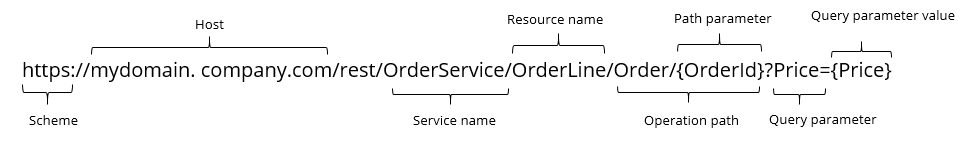
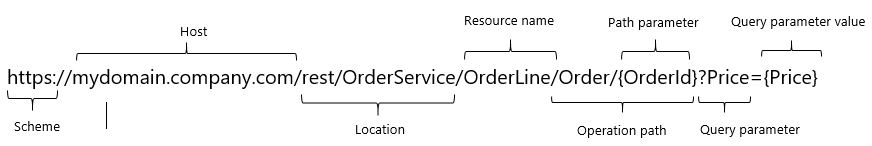
Documented service name, custom location and version feature in published REST service. (#933)
* Documented custom path feature in published REST service.

* Update published-rest-service.md

* Update version number for the feature

* Added documentation about Version and changed custom endpoint documentation to Location.

* Updated definitions of Service name + some wording changes.

* Fixed titles

diff --git a/content/refguide/published-rest-service.md b/content/refguide/published-rest-service.md
@@ -17,19 +17,60 @@ Use a published REST service to expose your entities and microflows to other app
 
 ### <a name="service-name"></a>2.1 Service Name
 
-The service name uniquely identifies the service in the app. It's part of the location of the service, so it cannot contain spaces or special characters.
+Service name uniquely identifies the service in the app. It is also displayed in [OpenAPI (Swagger) documentation page](open-api).
 
-### 2.2 Example Location
+When service is initially created, service name is used in the creation of the default location for the service. If the service name contains any spaces or special characters, they will be replaced with the `_` character in the service location. 
 
-The example location shows the URL on which the service can be reached. This is an example: 
+### 2.2 Version
 
-![](attachments/published-rest-service/example-location-url.png)
+{{% alert type="info" %}}
 
-### <a name="public-documentation"></a>2.3 Public Documentation
+The **Version** feature was introduced in version 7.12.0.
+
+{{% /alert %}}
+
+Version is used to display version information in [OpenAPI (Swagger) documentation page](open-api). You can set any string in the version field, but it is recomended to follow [semantic versioning](https://semver.org/) scheme.
+
+By default, version is set to "1.0.0".
+
+### 2.3 Location
+
+{{% alert type="info" %}}
+
+**Location** is editable since version 7.12.0.
+
+{{% /alert %}}
+
+Location shows URL on which a service can be reached.
+
+By default, location is built up by appending service name and "v1" to the "rest/" prefix. Service name will be stripped off of any invalid URL characters; like spaces and special characters.
+
+Example:
+```
+http//localhost:8080/rest/my_service_name/v1
+```
+
+You can change the the default location to almost any valid URL.
+
+#### 2.3.1 Reserved prefixes
+
+Following URL prefixes are reserved and are not allowed to be used in location:
+
+* `ws/`
+* `ws-doc/`
+* `rest-doc/`
+* `odata/`
+* `odata-doc/`
+* `api-doc/`
+* `xas/`
+* `p/`
+* `reload/`
+
+### <a name="public-documentation"></a>2.4 Public Documentation
 
 The public documentation is used in the service's [OpenAPI 2.0 (Swagger) Documentation](open-api). You can use [GitHub-flavored markdown](gfm-syntax) for rich text.
 
-### <a name="export-swagger-json"></a>2.4 Export swagger.json
+### <a name="export-swagger-json"></a>2.5 Export swagger.json
 
 To save a service's [OpenAPI (Swagger) documentation](open-api) somewhere on your machine, simply right-click the service in the **Project Explorer** and select **Export swagger.json** (or just click the **Export swagger.json** button, depending on your Modeler version). This is a machine-readable file in the [OpenAPI 2.0 file format](https://github.com/OAI/OpenAPI-Specification/blob/master/versions/2.0.md). Most API tools support this format.
 
@@ -58,6 +99,10 @@ A REST service exposes a number of [resources](published-rest-resource). On a re
 ## 5 Operations
 
 When you select a resource, you see the [operations](published-rest-operation) that are defined for that resource.
+
+Resources and Operations are appended to [Location](#Location) to form a URL on which they can be accessed.
+
+![](attachments/published-rest-service/example-location-url.png)
 
 ## 6 Related Content
 
